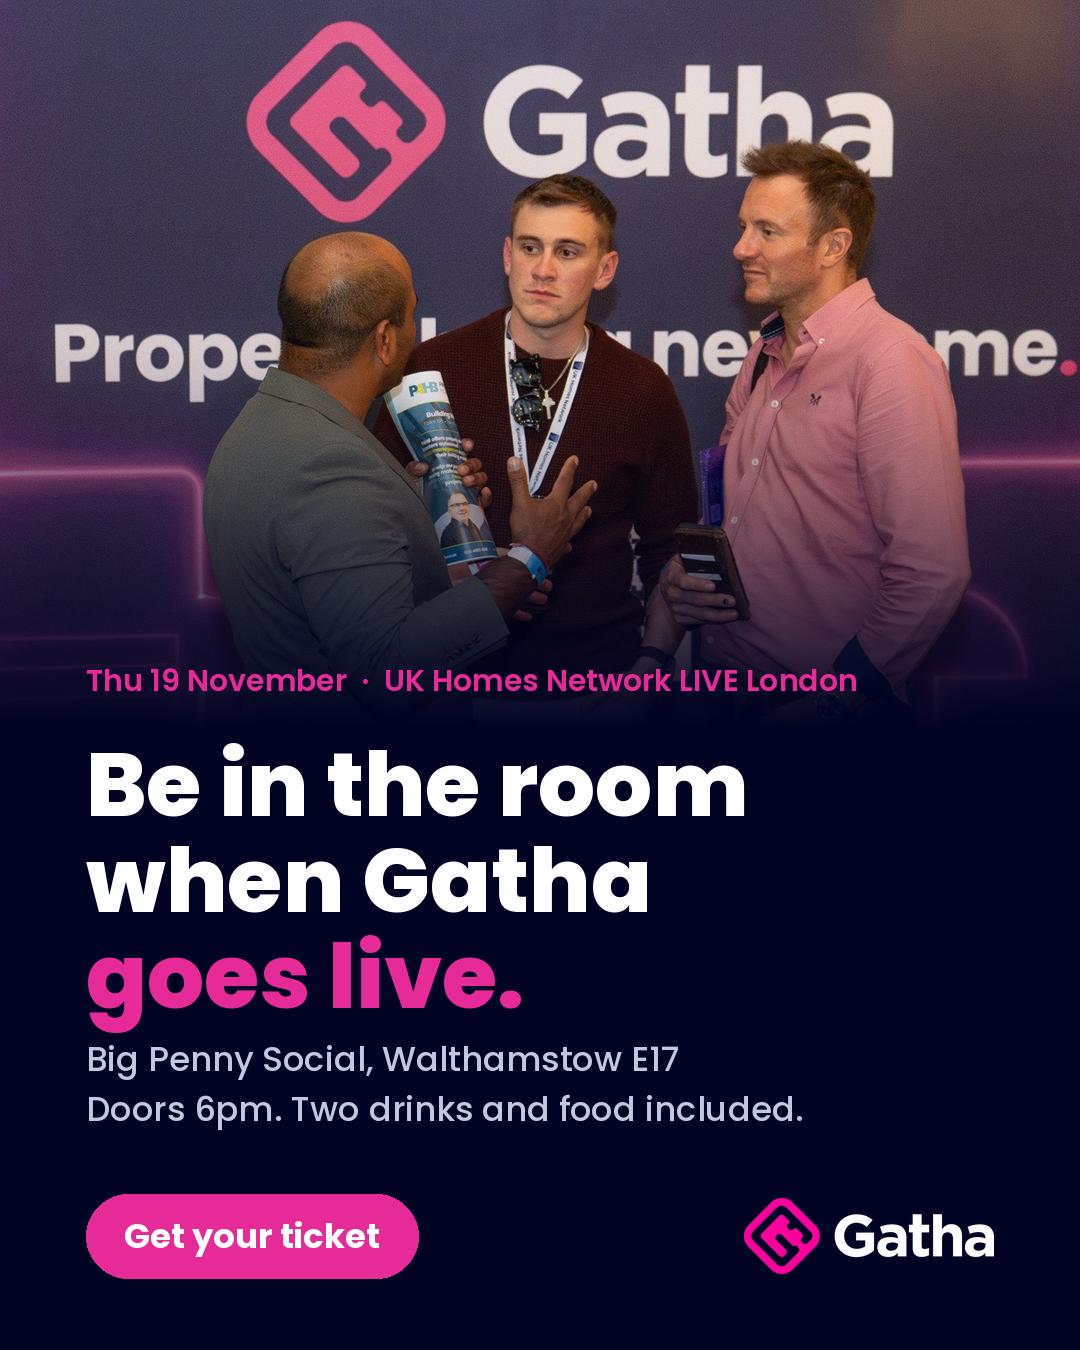
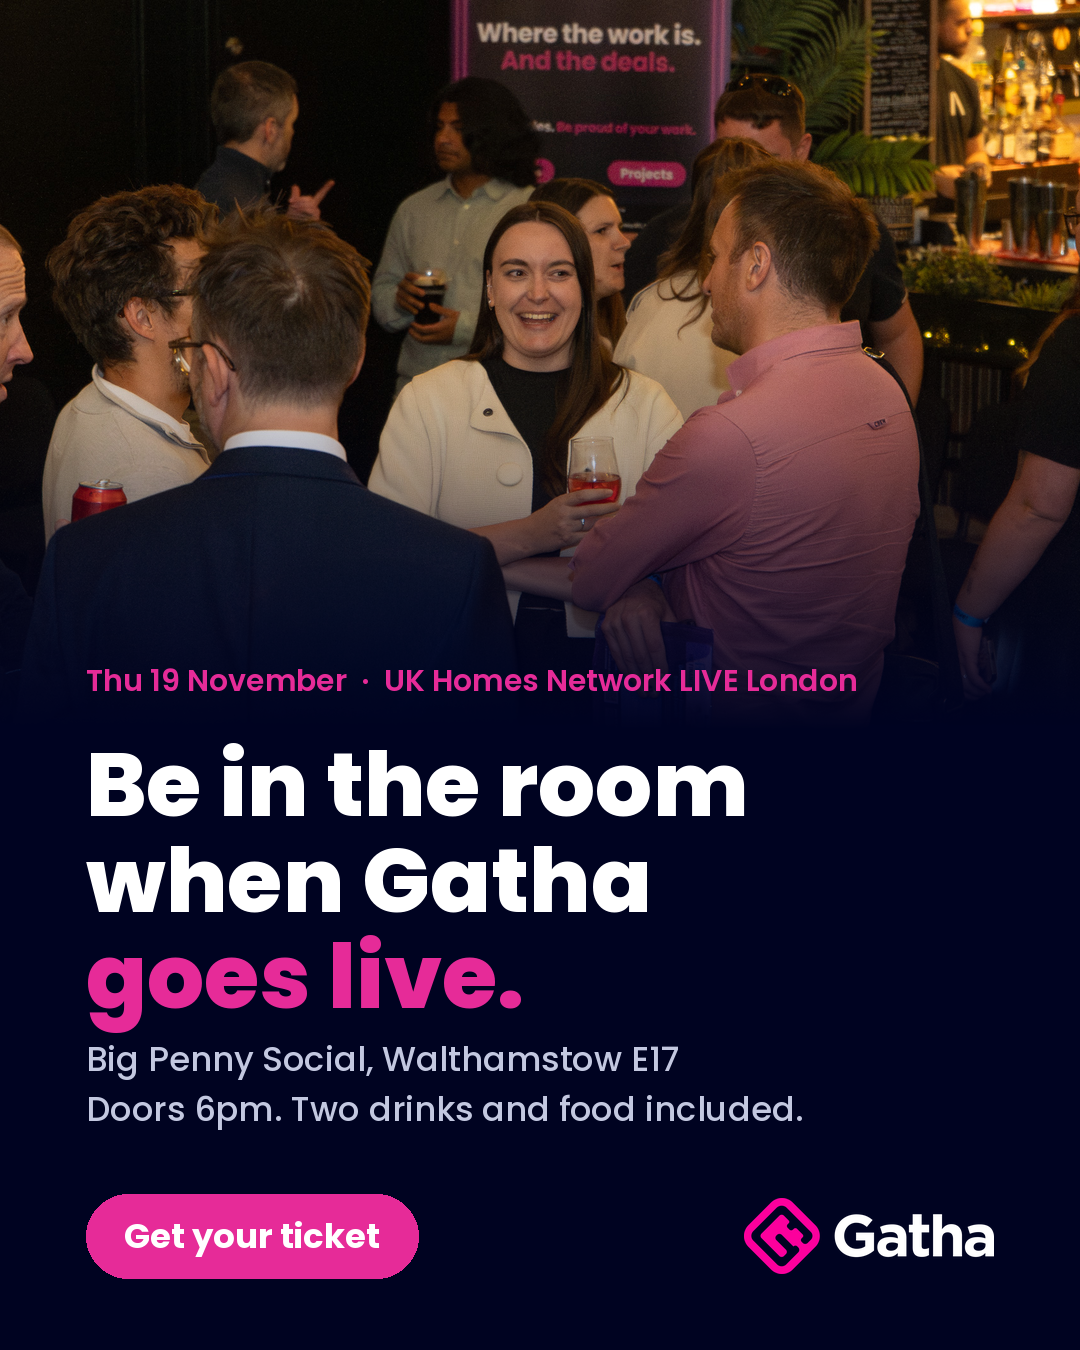
Swap London Gatha post onto unused Leeds photos
Main version uses DSC07967, alternate uses DSC08146. Neither appears in
the London schedule or ads. Adds a shortlist of other unused Leeds shots.

Claude-Session: https://claude.ai/code/session_019fqD1sQoeENzZtCRhQ6U4o

diff --git a/london-gatha-post/unused-leeds-photos.md b/london-gatha-post/unused-leeds-photos.md
@@ -1,0 +1,28 @@
+# Leeds 2026 photos not yet used in London assets
+
+Checked against the London social schedule (`posts.py`) and Meta ads (`ads.py`) on 8 Oct.
+Drive folder: Leeds DSC photo set. Already used: 07951, 07986, 07992, 08004, 08009, 08027, 08029, 08037,
+08042, 08043, 08094, 08097, 08100, 08104, 08158, 08161, 08175, 08189, 08204, 08218, 08254, 08256,
+08263, 08286, 08294, 08300, 08314, 08373, plus the `leeds-2026-*` web crops.
+
+Not yet checked: the partner image packs (zips in Drive), so double-check before reusing for a partner.
+
+## Best unused picks
+
+| Photo | What's in it | Good for |
+|---|---|---|
+| DSC07967 | Woman laughing mid-conversation, Gatha "Where the work is." banner behind | Gatha launch, atmosphere (used in this post) |
+| DSC08146 | Busy bar crowd, Gatha banner on the left | Gatha launch, atmosphere (alt version of this post) |
+| DSC08248 | Two guests eating, Gatha banner behind | Food included, Gatha |
+| DSC07929 | Two guests with drinks, tight crop | Faces, people-first posts |
+| DSC07916 | Guest in Property & Poppadoms hoodie, animated chat | Media partner thank-you |
+| DSC07947 | Wide floor shot, busy room | "The room", countdowns |
+| DSC08067 | Wide floor, stands and crowd | Exhibitor posts |
+| DSC08180 | Close group conversation | Bring someone / networking |
+| DSC08077 | Three guests with pints, laughing | Late night, the bar |
+| DSC08127 | Guest in a leather armchair reading | Calm, breakout space |
+| DSC07836 | Roma Finance stand with team | Roma spotlight (already has DSC08042) |
+| DSC08195 | C&C Insurance Brokers stand | C&C spotlight alt |
+| DSC08213 | Sancoe Consulting stand, two team members | Sancoe spotlight alt |
+| DSC07897 | Beat the Property Agent stand | Beat the Property Agent spotlight |
+| DSC07957 | iad banners, busy floor | iad spotlight alt |

diff --git a/london-gatha-post/caption.md b/london-gatha-post/caption.md
@@ -1,7 +1,7 @@
 # Gatha in-app post: London launch night
 
 **Post from:** Gatha company account
-**Image:** `gatha-london-live-4x5.png` (1080 x 1350, 4:5)
+**Image:** `gatha-london-live-4x5.png` (Leeds photo DSC07967). Alternate: `gatha-london-live-4x5-alt.png` (DSC08146). Both 1080 x 1350, 4:5, and neither photo is used in the London schedule or ads.
 **Link:** https://london-property-event.eventbrite.co.uk
 
 ---
